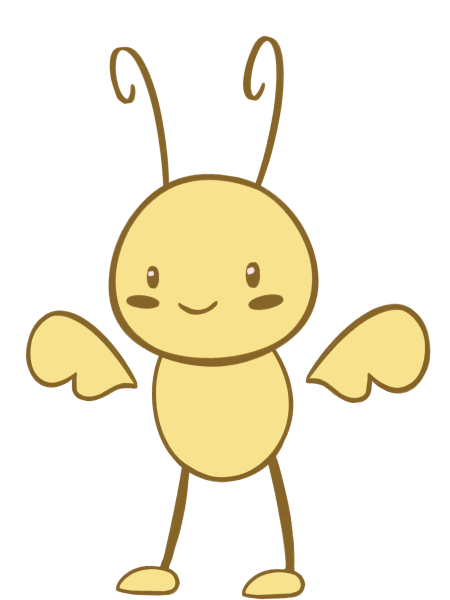
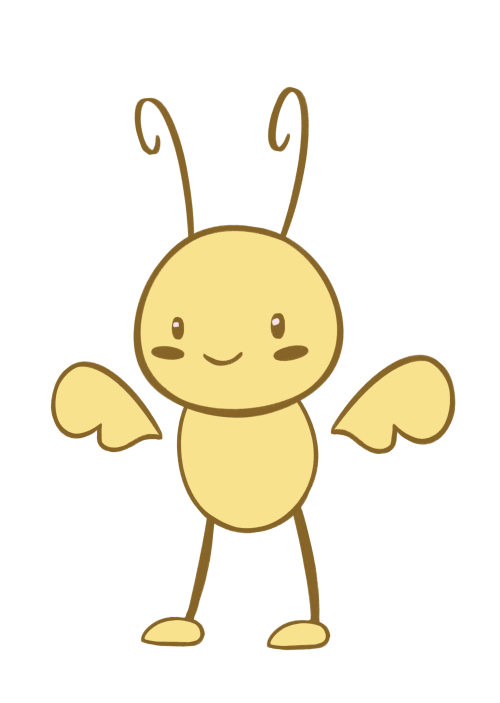
Change image size

diff --git a/src/components/character/character.scss b/src/components/character/character.scss
@@ -1,7 +1,7 @@
 .character {
   position: absolute;
   background-position: center;
-  background-size: contain;
+  background-size: 110%;
   z-index: 20;
   pointer-events: none;
 }
